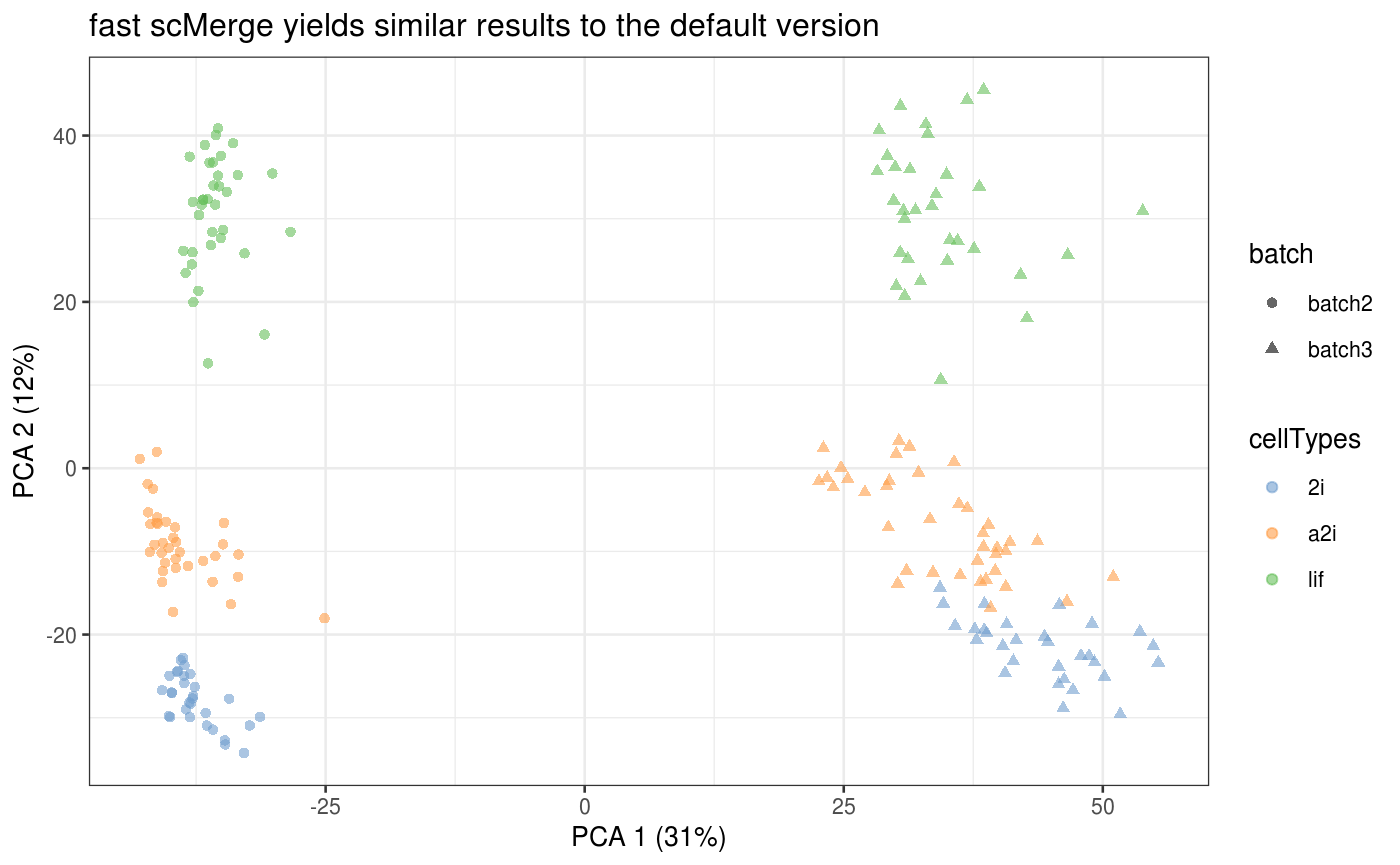
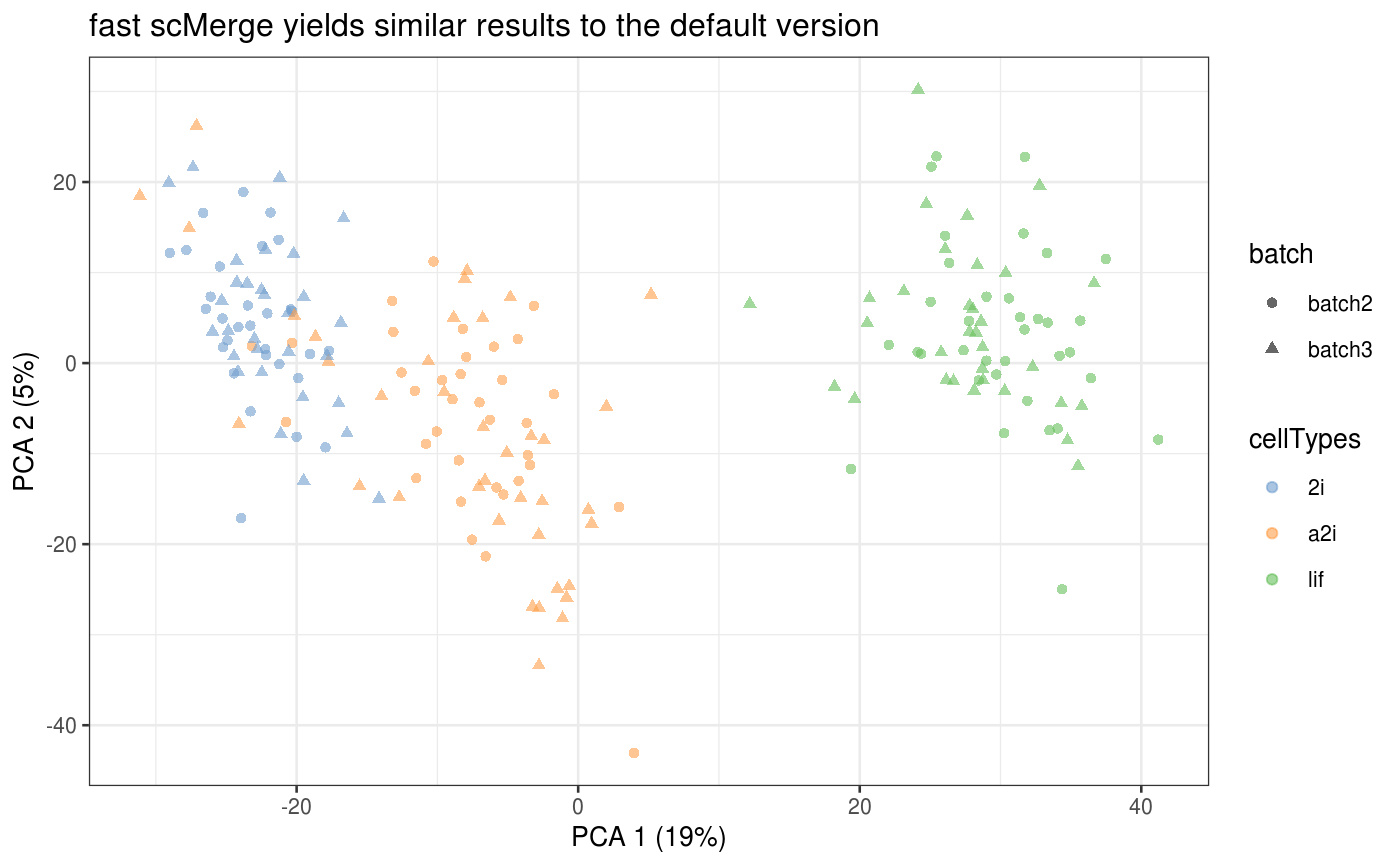
Built site for scMerge: 1.3.0@abdce46

diff --git a/articles/scMerge.html b/articles/scMerge.html
@@ -142,7 +142,7 @@
 <div class="sourceCode" id="cb2"><pre class="sourceCode r"><code class="sourceCode r"><a class="sourceLine" id="cb2-1" data-line-number="1">## Subsetted mouse ESC data</a>
 <a class="sourceLine" id="cb2-2" data-line-number="2"><span class="kw"><a href="https://rdrr.io/r/utils/data.html">data</a></span>(<span class="st">"example_sce"</span>, <span class="dt">package =</span> <span class="st">"scMerge"</span>)</a></code></pre></div>
 <p>In this mESC data, we pooled data from 2 different batches from three different cell types. Using a PCA plot, we can see that despite strong separation of cell types, there is also a strong separation due to batch effects. This information is stored in the <code>colData</code> of <code>example_sce</code>.</p>
-<div class="sourceCode" id="cb3"><pre class="sourceCode r"><code class="sourceCode r"><a class="sourceLine" id="cb3-1" data-line-number="1">example_sce =<span class="st"> </span><span class="kw"><a href="https://rdrr.io/pkg/scater/man/runPCA.html">runPCA</a></span>(example_sce)</a>
+<div class="sourceCode" id="cb3"><pre class="sourceCode r"><code class="sourceCode r"><a class="sourceLine" id="cb3-1" data-line-number="1">example_sce =<span class="st"> </span><span class="kw"><a href="https://rdrr.io/pkg/scater/man/runPCA.html">runPCA</a></span>(example_sce, <span class="dt">exprs_values =</span> <span class="st">"logcounts"</span>)</a>
 <a class="sourceLine" id="cb3-2" data-line-number="2"></a>
 <a class="sourceLine" id="cb3-3" data-line-number="3">scater<span class="op">::</span><span class="kw"><a href="https://rdrr.io/pkg/scater/man/plot_reddim.html">plotPCA</a></span>(</a>
 <a class="sourceLine" id="cb3-4" data-line-number="4">  example_sce, </a>
@@ -179,12 +179,11 @@
 <a class="sourceLine" id="cb5-6" data-line-number="6"><span class="co">#&gt; Step 2: Performing RUV normalisation. This will take minutes to hours.</span></a>
 <a class="sourceLine" id="cb5-7" data-line-number="7"><span class="co">#&gt; scMerge complete!</span></a></code></pre></div>
 <p>We now colour construct the PCA plot again on our normalised data. We can observe a much better separation by cell type and less separation by batches.</p>
-<div class="sourceCode" id="cb6"><pre class="sourceCode r"><code class="sourceCode r"><a class="sourceLine" id="cb6-1" data-line-number="1">scMerge_unsupervised =<span class="st"> </span><span class="kw"><a href="https://rdrr.io/pkg/scater/man/runPCA.html">runPCA</a></span>(scMerge_unsupervised)</a>
+<div class="sourceCode" id="cb6"><pre class="sourceCode r"><code class="sourceCode r"><a class="sourceLine" id="cb6-1" data-line-number="1">scMerge_unsupervised =<span class="st"> </span><span class="kw"><a href="https://rdrr.io/pkg/scater/man/runPCA.html">runPCA</a></span>(scMerge_unsupervised, <span class="dt">exprs_values =</span> <span class="st">"scMerge_unsupervised"</span>)</a>
 <a class="sourceLine" id="cb6-2" data-line-number="2">scater<span class="op">::</span><span class="kw"><a href="https://rdrr.io/pkg/scater/man/plot_reddim.html">plotPCA</a></span>(</a>
 <a class="sourceLine" id="cb6-3" data-line-number="3">  scMerge_unsupervised, </a>
 <a class="sourceLine" id="cb6-4" data-line-number="4">  <span class="dt">colour_by =</span> <span class="st">"cellTypes"</span>, </a>
-<a class="sourceLine" id="cb6-5" data-line-number="5">  <span class="dt">shape_by =</span> <span class="st">"batch"</span>,</a>
-<a class="sourceLine" id="cb6-6" data-line-number="6">  <span class="dt">run_args =</span> <span class="kw"><a href="https://rdrr.io/r/base/list.html">list</a></span>(<span class="dt">exprs_values =</span> <span class="st">"scMerge_unsupervised"</span>))</a></code></pre></div>
+<a class="sourceLine" id="cb6-5" data-line-number="5">  <span class="dt">shape_by =</span> <span class="st">"batch"</span>)</a></code></pre></div>
 <p><img src="scMerge_files/figure-html/unsupervised_default_plotting-1.png" width="700"></p>
 <!-- ##Selecting 80% of cells -->
 <!-- ```{r results='hide',fig.show='hide'} -->
@@ -211,13 +210,13 @@
 <a class="sourceLine" id="cb7-6" data-line-number="6">  <span class="dt">replicate_prop =</span> <span class="dv">1</span>)</a>
 <a class="sourceLine" id="cb7-7" data-line-number="7"><span class="co">#&gt; Step 2: Performing RUV normalisation. This will take minutes to hours.</span></a>
 <a class="sourceLine" id="cb7-8" data-line-number="8"><span class="co">#&gt; scMerge complete!</span></a></code></pre></div>
-<div class="sourceCode" id="cb8"><pre class="sourceCode r"><code class="sourceCode r"><a class="sourceLine" id="cb8-1" data-line-number="1">scMerge_unsupervised_all =<span class="st"> </span><span class="kw"><a href="https://rdrr.io/pkg/scater/man/runPCA.html">runPCA</a></span>(scMerge_unsupervised_all)</a>
-<a class="sourceLine" id="cb8-2" data-line-number="2"></a>
-<a class="sourceLine" id="cb8-3" data-line-number="3">scater<span class="op">::</span><span class="kw"><a href="https://rdrr.io/pkg/scater/man/plot_reddim.html">plotPCA</a></span>(</a>
-<a class="sourceLine" id="cb8-4" data-line-number="4">  scMerge_unsupervised_all, </a>
-<a class="sourceLine" id="cb8-5" data-line-number="5">  <span class="dt">colour_by =</span> <span class="st">"cellTypes"</span>, </a>
-<a class="sourceLine" id="cb8-6" data-line-number="6">  <span class="dt">shape_by =</span> <span class="st">"batch"</span>,</a>
-<a class="sourceLine" id="cb8-7" data-line-number="7">  <span class="dt">run_args =</span> <span class="kw"><a href="https://rdrr.io/r/base/list.html">list</a></span>(<span class="dt">exprs_values =</span> <span class="st">"scMerge_unsupervised_all"</span>))</a></code></pre></div>
+<div class="sourceCode" id="cb8"><pre class="sourceCode r"><code class="sourceCode r"><a class="sourceLine" id="cb8-1" data-line-number="1">scMerge_unsupervised_all =<span class="st"> </span><span class="kw"><a href="https://rdrr.io/pkg/scater/man/runPCA.html">runPCA</a></span>(scMerge_unsupervised_all,</a>
+<a class="sourceLine" id="cb8-2" data-line-number="2">                                  <span class="dt">exprs_values =</span> <span class="st">"scMerge_unsupervised_all"</span>)</a>
+<a class="sourceLine" id="cb8-3" data-line-number="3"></a>
+<a class="sourceLine" id="cb8-4" data-line-number="4">scater<span class="op">::</span><span class="kw"><a href="https://rdrr.io/pkg/scater/man/plot_reddim.html">plotPCA</a></span>(</a>
+<a class="sourceLine" id="cb8-5" data-line-number="5">  scMerge_unsupervised_all, </a>
+<a class="sourceLine" id="cb8-6" data-line-number="6">  <span class="dt">colour_by =</span> <span class="st">"cellTypes"</span>, </a>
+<a class="sourceLine" id="cb8-7" data-line-number="7">  <span class="dt">shape_by =</span> <span class="st">"batch"</span>)</a></code></pre></div>
 <p><img src="scMerge_files/figure-html/unsupervised_prop1_plotting-1.png" width="700"></p>
 <!-- ##Selecting 20% of cells -->
 <!-- ```{r results='hide',fig.show='hide'} -->
@@ -245,13 +244,13 @@
 <a class="sourceLine" id="cb9-6" data-line-number="6">  <span class="dt">cell_type =</span> example_sce<span class="op">$</span>cellTypes)</a>
 <a class="sourceLine" id="cb9-7" data-line-number="7"><span class="co">#&gt; Step 2: Performing RUV normalisation. This will take minutes to hours.</span></a>
 <a class="sourceLine" id="cb9-8" data-line-number="8"><span class="co">#&gt; scMerge complete!</span></a></code></pre></div>
-<div class="sourceCode" id="cb10"><pre class="sourceCode r"><code class="sourceCode r"><a class="sourceLine" id="cb10-1" data-line-number="1">scMerge_supervised =<span class="st"> </span><span class="kw"><a href="https://rdrr.io/pkg/scater/man/runPCA.html">runPCA</a></span>(scMerge_supervised)</a>
-<a class="sourceLine" id="cb10-2" data-line-number="2"></a>
-<a class="sourceLine" id="cb10-3" data-line-number="3">scater<span class="op">::</span><span class="kw"><a href="https://rdrr.io/pkg/scater/man/plot_reddim.html">plotPCA</a></span>(</a>
-<a class="sourceLine" id="cb10-4" data-line-number="4">  scMerge_supervised,</a>
-<a class="sourceLine" id="cb10-5" data-line-number="5">  <span class="dt">colour_by =</span> <span class="st">"cellTypes"</span>,</a>
-<a class="sourceLine" id="cb10-6" data-line-number="6">  <span class="dt">shape_by =</span> <span class="st">"batch"</span>,</a>
-<a class="sourceLine" id="cb10-7" data-line-number="7">  <span class="dt">run_args =</span> <span class="kw"><a href="https://rdrr.io/r/base/list.html">list</a></span>(<span class="dt">exprs_values =</span> <span class="st">"scMerge_supervised"</span>))</a></code></pre></div>
+<div class="sourceCode" id="cb10"><pre class="sourceCode r"><code class="sourceCode r"><a class="sourceLine" id="cb10-1" data-line-number="1">scMerge_supervised =<span class="st"> </span><span class="kw"><a href="https://rdrr.io/pkg/scater/man/runPCA.html">runPCA</a></span>(scMerge_supervised,</a>
+<a class="sourceLine" id="cb10-2" data-line-number="2">                            <span class="dt">exprs_values =</span> <span class="st">"scMerge_supervised"</span>)</a>
+<a class="sourceLine" id="cb10-3" data-line-number="3"></a>
+<a class="sourceLine" id="cb10-4" data-line-number="4">scater<span class="op">::</span><span class="kw"><a href="https://rdrr.io/pkg/scater/man/plot_reddim.html">plotPCA</a></span>(</a>
+<a class="sourceLine" id="cb10-5" data-line-number="5">  scMerge_supervised,</a>
+<a class="sourceLine" id="cb10-6" data-line-number="6">  <span class="dt">colour_by =</span> <span class="st">"cellTypes"</span>,</a>
+<a class="sourceLine" id="cb10-7" data-line-number="7">  <span class="dt">shape_by =</span> <span class="st">"batch"</span>)</a></code></pre></div>
 <p><img src="scMerge_files/figure-html/supervised_plotting-1.png" width="700"></p>
 </div>
 <div id="semi-supervised-scmerge-i" class="section level1">
@@ -268,13 +267,13 @@
 <a class="sourceLine" id="cb11-8" data-line-number="8">  <span class="dt">cell_type_match =</span> <span class="ot">FALSE</span>)</a>
 <a class="sourceLine" id="cb11-9" data-line-number="9"><span class="co">#&gt; Step 2: Performing RUV normalisation. This will take minutes to hours.</span></a>
 <a class="sourceLine" id="cb11-10" data-line-number="10"><span class="co">#&gt; scMerge complete!</span></a></code></pre></div>
-<div class="sourceCode" id="cb12"><pre class="sourceCode r"><code class="sourceCode r"><a class="sourceLine" id="cb12-1" data-line-number="1">scMerge_semisupervised1 =<span class="st"> </span><span class="kw"><a href="https://rdrr.io/pkg/scater/man/runPCA.html">runPCA</a></span>(scMerge_semisupervised1)</a>
-<a class="sourceLine" id="cb12-2" data-line-number="2"></a>
-<a class="sourceLine" id="cb12-3" data-line-number="3">scater<span class="op">::</span><span class="kw"><a href="https://rdrr.io/pkg/scater/man/plot_reddim.html">plotPCA</a></span>(</a>
-<a class="sourceLine" id="cb12-4" data-line-number="4">  scMerge_semisupervised1, </a>
-<a class="sourceLine" id="cb12-5" data-line-number="5">  <span class="dt">colour_by =</span> <span class="st">"cellTypes"</span>, </a>
-<a class="sourceLine" id="cb12-6" data-line-number="6">  <span class="dt">shape_by =</span> <span class="st">"batch"</span>,</a>
-<a class="sourceLine" id="cb12-7" data-line-number="7">  <span class="dt">run_args =</span> <span class="kw"><a href="https://rdrr.io/r/base/list.html">list</a></span>(<span class="dt">exprs_values =</span> <span class="st">"scMerge_semisupervised1"</span>))</a></code></pre></div>
+<div class="sourceCode" id="cb12"><pre class="sourceCode r"><code class="sourceCode r"><a class="sourceLine" id="cb12-1" data-line-number="1">scMerge_semisupervised1 =<span class="st"> </span><span class="kw"><a href="https://rdrr.io/pkg/scater/man/runPCA.html">runPCA</a></span>(scMerge_semisupervised1,</a>
+<a class="sourceLine" id="cb12-2" data-line-number="2">                                 <span class="dt">exprs_values =</span> <span class="st">"scMerge_semisupervised1"</span>)</a>
+<a class="sourceLine" id="cb12-3" data-line-number="3"></a>
+<a class="sourceLine" id="cb12-4" data-line-number="4">scater<span class="op">::</span><span class="kw"><a href="https://rdrr.io/pkg/scater/man/plot_reddim.html">plotPCA</a></span>(</a>
+<a class="sourceLine" id="cb12-5" data-line-number="5">  scMerge_semisupervised1, </a>
+<a class="sourceLine" id="cb12-6" data-line-number="6">  <span class="dt">colour_by =</span> <span class="st">"cellTypes"</span>, </a>
+<a class="sourceLine" id="cb12-7" data-line-number="7">  <span class="dt">shape_by =</span> <span class="st">"batch"</span>)</a></code></pre></div>
 <p><img src="scMerge_files/figure-html/semi_supervised1_plotting-1.png" width="700"></p>
 </div>
 <div id="semi-supervised-scmerge-ii" class="section level1">
@@ -292,13 +291,13 @@
 <a class="sourceLine" id="cb13-8" data-line-number="8">  <span class="dt">cell_type_match =</span> <span class="ot">TRUE</span>)</a>
 <a class="sourceLine" id="cb13-9" data-line-number="9"><span class="co">#&gt; Step 2: Performing RUV normalisation. This will take minutes to hours.</span></a>
 <a class="sourceLine" id="cb13-10" data-line-number="10"><span class="co">#&gt; scMerge complete!</span></a></code></pre></div>
-<div class="sourceCode" id="cb14"><pre class="sourceCode r"><code class="sourceCode r"><a class="sourceLine" id="cb14-1" data-line-number="1">scMerge_semisupervised2 =<span class="st"> </span><span class="kw"><a href="https://rdrr.io/pkg/scater/man/runPCA.html">runPCA</a></span>(scMerge_semisupervised2)</a>
-<a class="sourceLine" id="cb14-2" data-line-number="2"></a>
-<a class="sourceLine" id="cb14-3" data-line-number="3">scater<span class="op">::</span><span class="kw"><a href="https://rdrr.io/pkg/scater/man/plot_reddim.html">plotPCA</a></span>(</a>
-<a class="sourceLine" id="cb14-4" data-line-number="4">  scMerge_semisupervised2, </a>
-<a class="sourceLine" id="cb14-5" data-line-number="5">  <span class="dt">colour_by =</span> <span class="st">"cellTypes"</span>, </a>
-<a class="sourceLine" id="cb14-6" data-line-number="6">  <span class="dt">shape_by =</span> <span class="st">"batch"</span>,</a>
-<a class="sourceLine" id="cb14-7" data-line-number="7">  <span class="dt">run_args =</span> <span class="kw"><a href="https://rdrr.io/r/base/list.html">list</a></span>(<span class="dt">exprs_values =</span> <span class="st">"scMerge_semisupervised2"</span>))</a></code></pre></div>
+<div class="sourceCode" id="cb14"><pre class="sourceCode r"><code class="sourceCode r"><a class="sourceLine" id="cb14-1" data-line-number="1">scMerge_semisupervised2 =<span class="st"> </span><span class="kw"><a href="https://rdrr.io/pkg/scater/man/runPCA.html">runPCA</a></span>(scMerge_semisupervised2,</a>
+<a class="sourceLine" id="cb14-2" data-line-number="2">                                 <span class="dt">exprs_values =</span> <span class="st">"scMerge_semisupervised2"</span>)</a>
+<a class="sourceLine" id="cb14-3" data-line-number="3"></a>
+<a class="sourceLine" id="cb14-4" data-line-number="4">scater<span class="op">::</span><span class="kw"><a href="https://rdrr.io/pkg/scater/man/plot_reddim.html">plotPCA</a></span>(</a>
+<a class="sourceLine" id="cb14-5" data-line-number="5">  scMerge_semisupervised2, </a>
+<a class="sourceLine" id="cb14-6" data-line-number="6">  <span class="dt">colour_by =</span> <span class="st">"cellTypes"</span>, </a>
+<a class="sourceLine" id="cb14-7" data-line-number="7">  <span class="dt">shape_by =</span> <span class="st">"batch"</span>)</a></code></pre></div>
 <p><img src="scMerge_files/figure-html/semi_supervised2_plotting-1.png" width="700"></p>
 </div>
 <div id="selectnc" class="section level1">
@@ -349,18 +348,17 @@
 <a class="sourceLine" id="cb17-9" data-line-number="9"><span class="co">#&gt; Step 2: Performing RUV normalisation. This will take minutes to hours.</span></a>
 <a class="sourceLine" id="cb17-10" data-line-number="10"><span class="co">#&gt; scMerge complete!</span></a></code></pre></div>
 <div class="sourceCode" id="cb18"><pre class="sourceCode r"><code class="sourceCode r"><a class="sourceLine" id="cb18-1" data-line-number="1"><span class="kw"><a href="https://rdrr.io/r/base/paste.html">paste</a></span>(<span class="st">"Normally, scMerge takes "</span>, <span class="kw"><a href="https://rdrr.io/r/base/Round.html">round</a></span>(t2 <span class="op">-</span><span class="st"> </span>t1, <span class="dv">2</span>), <span class="st">" seconds"</span>)</a>
-<a class="sourceLine" id="cb18-2" data-line-number="2"><span class="co">#&gt; [1] "Normally, scMerge takes  0.86  seconds"</span></a>
+<a class="sourceLine" id="cb18-2" data-line-number="2"><span class="co">#&gt; [1] "Normally, scMerge takes  0.69  seconds"</span></a>
 <a class="sourceLine" id="cb18-3" data-line-number="3"><span class="kw"><a href="https://rdrr.io/r/base/paste.html">paste</a></span>(<span class="st">"Fast version of scMerge takes "</span>, <span class="kw"><a href="https://rdrr.io/r/base/Round.html">round</a></span>(t4 <span class="op">-</span><span class="st"> </span>t3, <span class="dv">2</span>), <span class="st">" seconds"</span>)</a>
-<a class="sourceLine" id="cb18-4" data-line-number="4"><span class="co">#&gt; [1] "Fast version of scMerge takes  0.58  seconds"</span></a>
+<a class="sourceLine" id="cb18-4" data-line-number="4"><span class="co">#&gt; [1] "Fast version of scMerge takes  0.47  seconds"</span></a>
 <a class="sourceLine" id="cb18-5" data-line-number="5"></a>
-<a class="sourceLine" id="cb18-6" data-line-number="6">scMerge_fast =<span class="st"> </span><span class="kw"><a href="https://rdrr.io/pkg/BiocSingular/man/runPCA.html">runPCA</a></span>(scMerge_fast)</a>
+<a class="sourceLine" id="cb18-6" data-line-number="6">scMerge_fast =<span class="st"> </span><span class="kw"><a href="https://rdrr.io/pkg/BiocSingular/man/runPCA.html">runPCA</a></span>(scMerge_fast, <span class="dt">exprs_values =</span> <span class="st">"scMerge_fast"</span>)</a>
 <a class="sourceLine" id="cb18-7" data-line-number="7"></a>
 <a class="sourceLine" id="cb18-8" data-line-number="8">scater<span class="op">::</span><span class="kw"><a href="https://rdrr.io/pkg/scater/man/plot_reddim.html">plotPCA</a></span>(</a>
 <a class="sourceLine" id="cb18-9" data-line-number="9">  scMerge_fast, </a>
 <a class="sourceLine" id="cb18-10" data-line-number="10">  <span class="dt">colour_by =</span> <span class="st">"cellTypes"</span>, </a>
-<a class="sourceLine" id="cb18-11" data-line-number="11">  <span class="dt">shape_by =</span> <span class="st">"batch"</span>,</a>
-<a class="sourceLine" id="cb18-12" data-line-number="12">  <span class="dt">run_args =</span> <span class="kw"><a href="https://rdrr.io/r/base/list.html">list</a></span>(<span class="dt">exprs_values =</span> <span class="st">"scMerge_fast"</span>)) <span class="op">+</span></a>
-<a class="sourceLine" id="cb18-13" data-line-number="13"><span class="st">  </span><span class="kw">labs</span>(<span class="dt">title =</span> <span class="st">"fast scMerge yields similar results to the default version"</span>)</a></code></pre></div>
+<a class="sourceLine" id="cb18-11" data-line-number="11">  <span class="dt">shape_by =</span> <span class="st">"batch"</span>) <span class="op">+</span></a>
+<a class="sourceLine" id="cb18-12" data-line-number="12"><span class="st">  </span><span class="kw">labs</span>(<span class="dt">title =</span> <span class="st">"fast scMerge yields similar results to the default version"</span>)</a></code></pre></div>
 <p><img src="scMerge_files/figure-html/computation_svd_plotting-1.png" width="700"></p>
 </div>
 <div id="parallelised-computing" class="section level2">
@@ -430,7 +428,7 @@
 <a class="sourceLine" id="cb21-20" data-line-number="20"><span class="co">#&gt; [8] methods   base     </span></a>
 <a class="sourceLine" id="cb21-21" data-line-number="21"><span class="co">#&gt; </span></a>
 <a class="sourceLine" id="cb21-22" data-line-number="22"><span class="co">#&gt; other attached packages:</span></a>
-<a class="sourceLine" id="cb21-23" data-line-number="23"><span class="co">#&gt;  [1] BiocSingular_1.2.0          scater_1.14.5              </span></a>
+<a class="sourceLine" id="cb21-23" data-line-number="23"><span class="co">#&gt;  [1] BiocSingular_1.2.0          scater_1.14.6              </span></a>
 <a class="sourceLine" id="cb21-24" data-line-number="24"><span class="co">#&gt;  [3] ggplot2_3.2.1               scMerge_1.3.0              </span></a>
 <a class="sourceLine" id="cb21-25" data-line-number="25"><span class="co">#&gt;  [5] SingleCellExperiment_1.8.0  SummarizedExperiment_1.16.0</span></a>
 <a class="sourceLine" id="cb21-26" data-line-number="26"><span class="co">#&gt;  [7] DelayedArray_0.12.0         BiocParallel_1.20.0        </span></a>

diff --git a/reference/eigenResidop.html b/reference/eigenResidop.html
@@ -173,8 +173,8 @@ $$A - B(B^t B)^{-1} B^t A$$</p>
     <h2 class="hasAnchor" id="examples"><a class="anchor" href="#examples"></a>Examples</h2>
     <pre class="examples"><div class='input'><span class='no'>Y</span> <span class='kw'>=</span> <span class='no'>M</span> <span class='kw'>=</span> <span class='fu'><a href='https://rdrr.io/r/base/diag.html'>diag</a></span>(<span class='fl'>1</span>, <span class='fl'>500</span>)
 <span class='fu'><a href='https://rdrr.io/r/base/system.time.html'>system.time</a></span>(<span class='kw pkg'>scMerge</span><span class='kw ns'>::</span><span class='fu'><a href='https://rdrr.io/pkg/scMerge/man/eigenResidop.html'>eigenResidop</a></span>(<span class='no'>Y</span>, <span class='no'>M</span>))</div><div class='output co'>#&gt;    user  system elapsed 
-#&gt;   0.140   0.008   0.148 </div><div class='input'><span class='fu'><a href='https://rdrr.io/r/base/system.time.html'>system.time</a></span>(<span class='kw pkg'>ruv</span><span class='kw ns'>::</span><span class='fu'><a href='https://rdrr.io/pkg/ruv/man/residop.html'>residop</a></span>(<span class='no'>Y</span>, <span class='no'>M</span>))</div><div class='output co'>#&gt;    user  system elapsed 
-#&gt;   0.436   0.004   0.440 </div></pre>
+#&gt;   0.112   0.004   0.117 </div><div class='input'><span class='fu'><a href='https://rdrr.io/r/base/system.time.html'>system.time</a></span>(<span class='kw pkg'>ruv</span><span class='kw ns'>::</span><span class='fu'><a href='https://rdrr.io/pkg/ruv/man/residop.html'>residop</a></span>(<span class='no'>Y</span>, <span class='no'>M</span>))</div><div class='output co'>#&gt;    user  system elapsed 
+#&gt;   0.352   0.008   0.360 </div></pre>
   </div>
   <div class="col-md-3 hidden-xs hidden-sm" id="pkgdown-sidebar">
     <h2>Contents</h2>

diff --git a/reference/eigenMatMult.html b/reference/eigenMatMult.html
@@ -172,8 +172,8 @@
     <h2 class="hasAnchor" id="examples"><a class="anchor" href="#examples"></a>Examples</h2>
     <pre class="examples"><div class='input'><span class='no'>A</span> <span class='kw'>=</span> <span class='fu'><a href='https://rdrr.io/r/base/matrix.html'>matrix</a></span>(<span class='fl'>0</span>, <span class='kw'>ncol</span> <span class='kw'>=</span> <span class='fl'>500</span>, <span class='kw'>nrow</span> <span class='kw'>=</span> <span class='fl'>500</span>)
 <span class='fu'><a href='https://rdrr.io/r/base/system.time.html'>system.time</a></span>(<span class='no'>A</span> <span class='kw'>%*%</span> <span class='no'>A</span>)</div><div class='output co'>#&gt;    user  system elapsed 
-#&gt;   0.096   0.004   0.100 </div><div class='input'><span class='fu'><a href='https://rdrr.io/r/base/system.time.html'>system.time</a></span>(<span class='fu'>eigenMatMult</span>(<span class='no'>A</span>, <span class='no'>A</span>))</div><div class='output co'>#&gt;    user  system elapsed 
-#&gt;   0.028   0.000   0.029 </div></pre>
+#&gt;   0.072   0.012   0.084 </div><div class='input'><span class='fu'><a href='https://rdrr.io/r/base/system.time.html'>system.time</a></span>(<span class='fu'>eigenMatMult</span>(<span class='no'>A</span>, <span class='no'>A</span>))</div><div class='output co'>#&gt;    user  system elapsed 
+#&gt;   0.020   0.004   0.022 </div></pre>
   </div>
   <div class="col-md-3 hidden-xs hidden-sm" id="pkgdown-sidebar">
     <h2>Contents</h2>

diff --git a/articles/case_study/Mouse_Liver_Data.html b/articles/case_study/Mouse_Liver_Data.html
@@ -106,7 +106,7 @@
       <h1>Mouse Liver Data</h1>
                         <h4 class="author">Kevin Wang</h4>
             
-            <h4 class="date">14 Dec 2019</h4>
+            <h4 class="date">18 Dec 2019</h4>
       
       <small class="dont-index">Source: <a href="https://github.com/SydneyBioX/scMerge/blob/master/vignettes/case_study/Mouse_Liver_Data.Rmd"><code>vignettes/case_study/Mouse_Liver_Data.Rmd</code></a></small>
       <div class="hidden name"><code>Mouse_Liver_Data.Rmd</code></div>

diff --git a/articles/case_study/Neuronal_Data.html b/articles/case_study/Neuronal_Data.html
@@ -106,7 +106,7 @@
       <h1>Neuronal Single Cell Data</h1>
                         <h4 class="author">Kevin Wang</h4>
             
-            <h4 class="date">14 Dec 2019</h4>
+            <h4 class="date">18 Dec 2019</h4>
       
       <small class="dont-index">Source: <a href="https://github.com/SydneyBioX/scMerge/blob/master/vignettes/case_study/Neuronal_Data.Rmd"><code>vignettes/case_study/Neuronal_Data.Rmd</code></a></small>
       <div class="hidden name"><code>Neuronal_Data.Rmd</code></div>

diff --git a/articles/case_study/Pancreas4_Data.html b/articles/case_study/Pancreas4_Data.html
@@ -106,7 +106,7 @@
       <h1>Pancreas 4 Data</h1>
                         <h4 class="author">Kevin Wang</h4>
             
-            <h4 class="date">14 Dec 2019</h4>
+            <h4 class="date">18 Dec 2019</h4>
       
       <small class="dont-index">Source: <a href="https://github.com/SydneyBioX/scMerge/blob/master/vignettes/case_study/Pancreas4_Data.Rmd"><code>vignettes/case_study/Pancreas4_Data.Rmd</code></a></small>
       <div class="hidden name"><code>Pancreas4_Data.Rmd</code></div>

diff --git a/articles/case_study/mESC_Data.html b/articles/case_study/mESC_Data.html
@@ -106,7 +106,7 @@
       <h1>Mouse Embryonic Stem Cell Data</h1>
                         <h4 class="author">Kevin Wang</h4>
             
-            <h4 class="date">14 Dec 2019</h4>
+            <h4 class="date">18 Dec 2019</h4>
       
       <small class="dont-index">Source: <a href="https://github.com/SydneyBioX/scMerge/blob/master/vignettes/case_study/mESC_Data.Rmd"><code>vignettes/case_study/mESC_Data.Rmd</code></a></small>
       <div class="hidden name"><code>mESC_Data.Rmd</code></div>

diff --git a/articles/case_study/CellBench_Data.html b/articles/case_study/CellBench_Data.html
@@ -106,7 +106,7 @@
       <h1>CellBench Data</h1>
                         <h4 class="author">Kevin Wang</h4>
             
-            <h4 class="date">14 Dec 2019</h4>
+            <h4 class="date">18 Dec 2019</h4>
       
       <small class="dont-index">Source: <a href="https://github.com/SydneyBioX/scMerge/blob/master/vignettes/case_study/CellBench_Data.Rmd"><code>vignettes/case_study/CellBench_Data.Rmd</code></a></small>
       <div class="hidden name"><code>CellBench_Data.Rmd</code></div>

diff --git a/articles/case_study/Breast_Data.html b/articles/case_study/Breast_Data.html
@@ -106,7 +106,7 @@
       <h1>Breast Cancer Data</h1>
                         <h4 class="author">Kevin Wang</h4>
             
-            <h4 class="date">14 Dec 2019</h4>
+            <h4 class="date">18 Dec 2019</h4>
       
       <small class="dont-index">Source: <a href="https://github.com/SydneyBioX/scMerge/blob/master/vignettes/case_study/Breast_Data.Rmd"><code>vignettes/case_study/Breast_Data.Rmd</code></a></small>
       <div class="hidden name"><code>Breast_Data.Rmd</code></div>

diff --git a/articles/case_study/ESC_Data.html b/articles/case_study/ESC_Data.html
@@ -106,7 +106,7 @@
       <h1>Embyronic Stem Cell Data</h1>
                         <h4 class="author">Kevin Wang</h4>
             
-            <h4 class="date">14 Dec 2019</h4>
+            <h4 class="date">18 Dec 2019</h4>
       
       <small class="dont-index">Source: <a href="https://github.com/SydneyBioX/scMerge/blob/master/vignettes/case_study/ESC_Data.Rmd"><code>vignettes/case_study/ESC_Data.Rmd</code></a></small>
       <div class="hidden name"><code>ESC_Data.Rmd</code></div>
